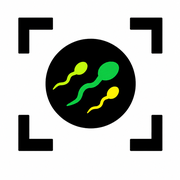
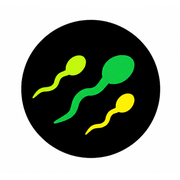
padronizando visual

diff --git a/src/App.jsx b/src/App.jsx
@@ -1870,8 +1870,7 @@ export default function App() {
               style={{ background: "none", border: "none", color: "#FFFFFF", cursor: "pointer", padding: 4, display: "flex" }}>
               <Menu size={22} />
             </button>
-            <img src={logoImg} alt="VArepro" style={{ width: 26, height: 26, borderRadius: 7, objectFit: "cover", flexShrink: 0 }} />
-            <div style={{ fontFamily: "'Fraunces', serif", fontWeight: 700, fontSize: 16 }}>VArepro</div>
+            <img src={logoBannerImg} alt="VArepro" style={{ height: 28, width: "auto", flexShrink: 0 }} />
           </div>
         )}
         {SUBTABS[section] && (
@@ -1880,18 +1879,23 @@ export default function App() {
               const Icon = t.icon;
               const active = sub === t.key;
               const pendentesSubtab = t.key === "implantacao" ? sugestoesRessincAtivas.length : t.key === "repasse" ? sugestoesRepasseAtivas.length : 0;
+              const estiloManejo = section === "manejo" || section === "estoque" || section === "cadastros"; // "Registrar manejo", "Estoque" e "Cadastros" usam o destaque em caixa verde, sem ícone
               return (
                 <button key={t.key} onClick={() => setSub(t.key)}
-                  style={{
+                  style={estiloManejo ? {
+                    display: "flex", alignItems: "center", padding: "9px 14px", borderRadius: 8,
+                    border: "none", background: active ? "#166336" : "transparent", color: active ? "#FFFFFF" : "#6B685E",
+                    fontSize: 12.5, fontWeight: 700, textTransform: "uppercase", letterSpacing: "0.3px", cursor: "pointer", marginBottom: 5,
+                  } : {
                     display: "flex", alignItems: "center", gap: 6, padding: "9px 14px",
                     border: "none", borderBottom: active ? "2px solid #166336" : "2px solid transparent",
                     background: "transparent", color: active ? "#166336" : "#6B685E",
                     fontSize: 13, fontWeight: 600, cursor: "pointer", marginBottom: -1,
                   }}>
-                  <Icon size={14} />
+                  {!estiloManejo && <Icon size={14} />}
                   {t.label}
                   {pendentesSubtab > 0 && (
-                    <span style={{ background: "#166336", color: "#FFFFFF", fontSize: 10.5, fontWeight: 700, borderRadius: 20, padding: "1px 7px" }}>{pendentesSubtab}</span>
+                    <span style={{ background: estiloManejo ? "#FFFFFF" : "#166336", color: estiloManejo ? "#166336" : "#FFFFFF", fontSize: 10.5, fontWeight: 700, borderRadius: 20, padding: "1px 7px", marginLeft: estiloManejo ? 6 : 0 }}>{pendentesSubtab}</span>
                   )}
                 </button>
               );
